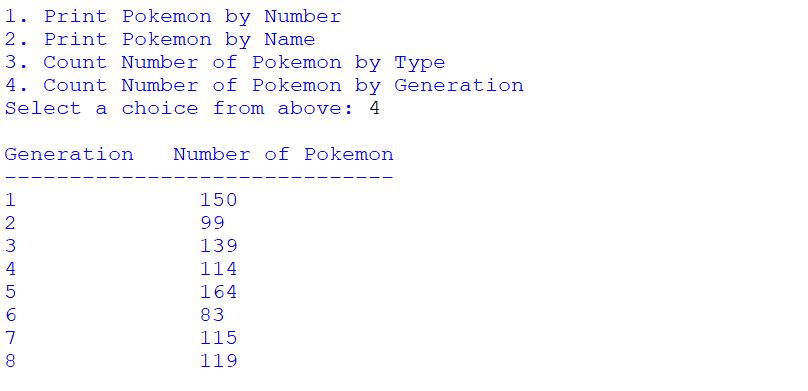
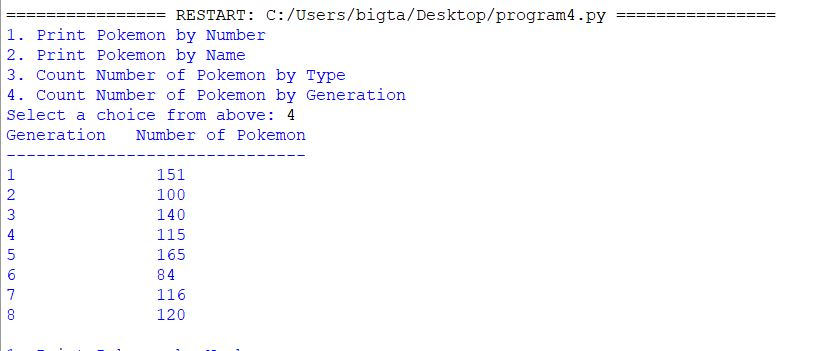
fix error for program 4 output 4

diff --git a/classes/summer2021/127/programs/program4.html b/classes/summer2021/127/programs/program4.html
@@ -48,7 +48,7 @@
 <ul>
 <li>Using <a href="program4.txt">program4.py</a> (renamed according to the
     instructions above) as a starting point,
-    supply the missing functions, missing class, and missing class methods. In addition the the class definiation and methods, You will need to implement four different functions: </li>
+    supply the missing functions, missing class, and missing class methods. In addition the the class definition and methods, You will need to implement four different functions: </li>
 <li>The <b>create_pokedex</b> function should read in from <a href="pokemon.csv"> pokemon.csv </a> and fill a <b>list</b> with information about each Pokemon. The CSV file contains information about every Pokemon that has been created since 1996. At the end of this function, you should return the filled list </li>
 	<ul>
 		<li> For each Pokemon in the file, you should create a Pokemon object and store it inside of the list you created</li>
@@ -84,7 +84,7 @@
 		<li> <a href="program4output1.JPG">this sample transcript for the <b> lookup_by_number() </b> function</a> </li>
 		<li> <a href="program4output2.JPG">this sample transcript for the <b> lookup_by_name() </b> function</a> </li>
 		<li> <a href="program4output3.JPG">this sample transcript for the <b> total_by_type() </b> function</a> </li>
-		<li> <a href="program4output4.JPG">this sample transcript for the <b> number_per_generation() </b> function</a> </li>
+		<li> <a href="program4output4.JPG">this sample transcript for the <b> number_per_generation() </b> function</a> (Update 6/11 - There was a small error in the original image. I've updated this link to reflect the actual correct answer :-) (thanks peyton!)</li>
 		
 	</ul>
 </p>
